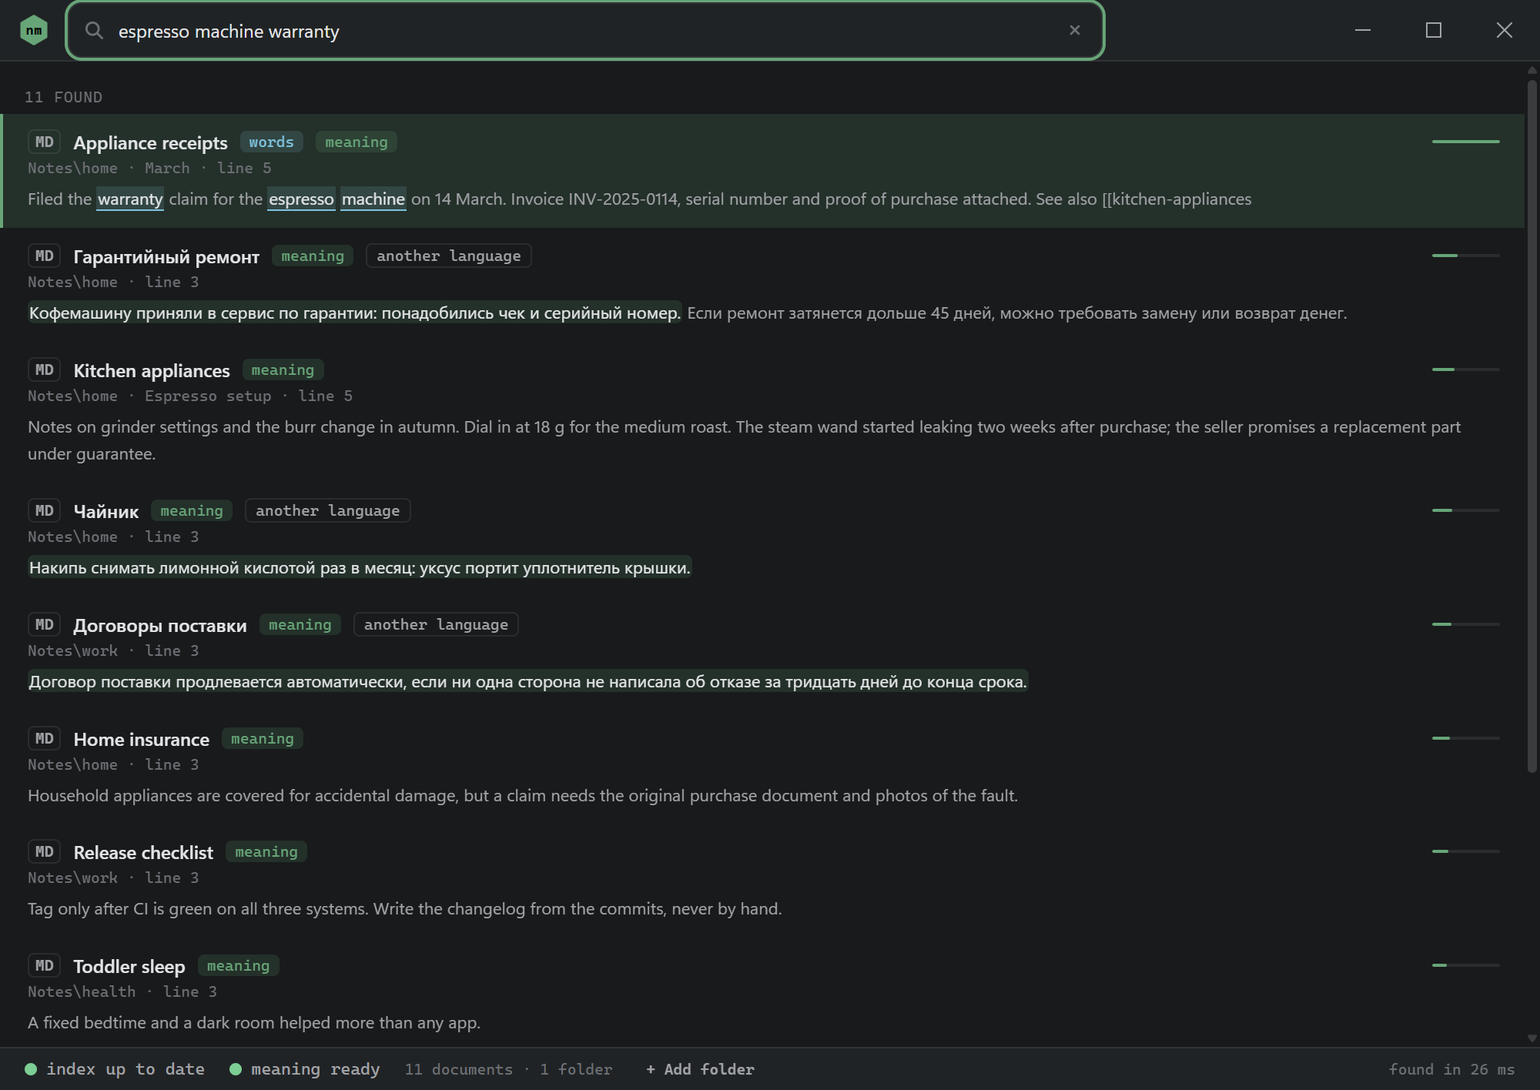
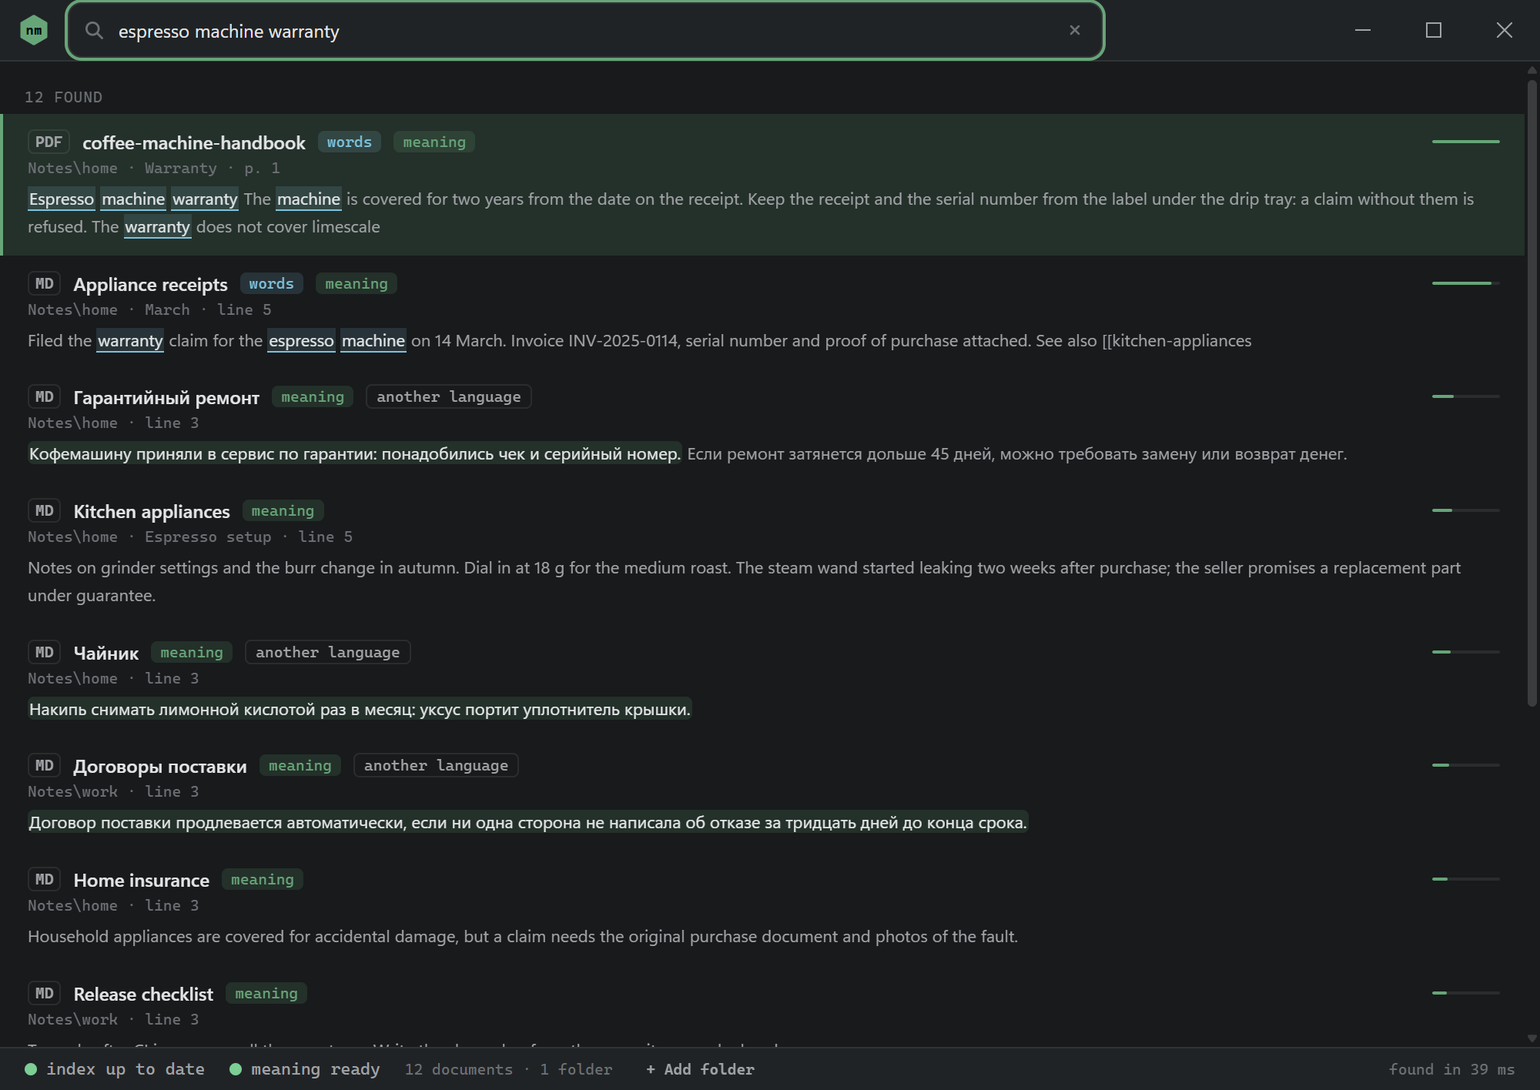
docs: describe PDF search

diff --git a/docs/src/content/docs/reference/find.md b/docs/src/content/docs/reference/find.md
@@ -25,13 +25,13 @@ nooma source remove <FOLDER>
 nooma source list [--json]
 ```
 
-A **source** is a folder. Everything under it that is a text document - `.md`, `.markdown`, `.txt`, `.text` - is searched, except what is left out:
+A **source** is a folder. Everything under it that is a document - markdown and text (`.md`, `.markdown`, `.txt`, `.text`) and PDF (`.pdf`) - is searched, except what is left out:
 
 - hidden files and folders, such as `.obsidian/`, `.trash/` and `.git/`;
 - whatever a `.gitignore` inside a git repository excludes;
 - whatever a `.nooma-ignore` file excludes - the same syntax as `.gitignore`, anywhere in the folder;
 - whatever `--exclude` patterns the source was added with, in the same syntax, relative to the folder;
-- files larger than 16 MB.
+- markdown and text files larger than 16 MB - a log or a dump, at that size - and PDFs larger than 256 MB. A PDF's bytes are mostly pictures, which are not read, so a book of 50 MB is an ordinary PDF.
 
 Two sources may not overlap. A folder inside a source would put its files in the index twice, and a folder around one would make the inner one's exclusions mean nothing; either is refused, naming the source it overlaps.
 
@@ -59,6 +59,8 @@ A source whose folder cannot be reached - a drive that is not plugged in - keeps
 
 A file that is not UTF-8, or UTF-16 with a byte order mark, is skipped and named with the reason. Its encoding is not guessed: a wrong guess puts text in the index that no query will ever match, and says nothing.
 
+**PDF** is read page by page, its text as the PDF's fonts map it - see [Chunks](#chunks) for how pages are cut. A PDF locked only against printing or copying opens as any other; one that needs a password to open is skipped, and the reason says so. A PDF with no text in it at all - a scan - is indexed by its name and the title in its metadata, so it is still found by them, and the report names it: its pages wait for OCR, which is not in this version. A PDF the reader fails on is skipped with the reason, and the rest of the update goes on. When a new nooma reads PDFs with a newer reader, the next update reads every PDF again - their bytes did not change, but what can be read out of them did - and leaves markdown and text as they are.
+
 When the stored index was built by a nooma that cut or stemmed documents differently, it is thrown away and built again, and the report says why. Searching an index built by other rules would quietly find less.
 
 Only one process updates a library at a time. A second one fails with a message saying so; `nooma find` in that case answers from the stored index instead.
@@ -76,6 +78,7 @@ Without the model, `index` updates the exact half and says how to fetch the mode
 | `removed` | Documents that left the index: deleted, excluded, or in a removed source. |
 | `chunks` | Chunks written in this update. |
 | `skipped` | Files found and not read, each with `path` and `reason`. |
+| `textless` | PDFs read in this update that hold no text - scans, most likely - by path. They are in the index, found by their names. |
 | `unavailable` | Sources whose folder could not be reached. |
 | `rebuilt` | Why the whole index was built again, or `null`. |
 | `took_ms` | How long the update took. |
@@ -100,13 +103,13 @@ Without the model, `index` updates the exact half and says how to fetch the mode
 nooma find <QUERY> [--limit <N>] [--json] [--no-refresh]
 ```
 
-Prints one list, best first, one entry per document, at the place in it that answered best. `--limit` caps it. Each entry says which halves found it: `words`, `meaning 0.84` - the cosine - or both; `meaning 0.84, another language` when the meaning alone found it in the other language than the query's, and then its fragment starts at the sentence that answered - see [Across languages](/nooma/concepts/languages/). How the two are ranked together is on [One list from two halves](/nooma/concepts/hybrid/).
+Prints one list, best first, one entry per document, at the place in it that answered best - `notes/plan.md:42` for a note, `books/manual.pdf · p. 12` for a PDF. `--limit` caps it. Each entry says which halves found it: `words`, `meaning 0.84` - the cosine - or both; `meaning 0.84, another language` when the meaning alone found it in the other language than the query's, and then its fragment starts at the sentence that answered - see [Across languages](/nooma/concepts/languages/). How the two are ranked together is on [One list from two halves](/nooma/concepts/hybrid/).
 
 **Any form of a word finds the others.** Every word is reduced to its stem before it is stored and before it is looked up, in Russian or in English by the alphabet it is written in: `договоров` finds *Договор*, `warranties` finds *warranty*. A word is judged on its own rather than by the language of the document around it, so the English terms in a Russian note are found by their English forms. `ё` and `е` are the same letter. Numbers and codes are kept as written, and `INV-2025-0114` finds that invoice number as a sequence rather than any document containing `2025`.
 
 **Every word must occur** - in the text, the title, a heading, the tags or the links - as long as some document has them all. When none does, documents with some of the words are taken instead, and the list says so above itself and marks them `some words`. Words that most of the library holds - *the*, *for*, *и* - are left out of that weaker search: on their own they match nearly everything. Which words those are, the library counts for itself; there is no list of stop words. A document holding a small part of the question counts for little against what the meaning found.
 
-**Markdown is read as a vault.** A heading ends one chunk and names the next; a code block is never split. From an Obsidian vault, frontmatter `tags`, `aliases` and `title`, inline `#tags` and `[[wikilinks]]` are fields of their own, so a note is found by what it is tagged with. A note is also found - more weakly - by the titles of the notes that link to it, and a note that many others link to ranks slightly higher. A link resolves within its own source, by file name or by the end of its path; a name two notes share resolves to neither.
+**Markdown is read as a vault.** A heading ends one chunk and names the next; a code block is never split. From an Obsidian vault, frontmatter `tags`, `aliases` and `title`, inline `#tags` and `[[wikilinks]]` are fields of their own, so a note is found by what it is tagged with. A note is also found - more weakly - by the titles of the notes that link to it, and a note that many others link to ranks slightly higher. A link resolves within its own source, by file name or by the end of its path; a name two notes share resolves to neither. A note is linked without its `.md`, any other file with its extension, as Obsidian does: `![[manual.pdf]]` gives the PDF the linking note's title, `[[manual]]` does not.
 
 **By meaning** comes from the vector index. When there is no model, or no vectors yet, the words answer alone and a line under the list says how to get the other half; when the vectors cover only part of the library - files changed since the last `nooma index` - the line says how many documents they do not cover yet. A document deleted since is never in the list.
 
@@ -136,10 +139,11 @@ Each hit carries:
 | Field | Meaning |
 | --- | --- |
 | `path` | The file. |
-| `kind` | `markdown` or `text`. |
-| `title` | The frontmatter title, the first top-level heading, or the file name. |
-| `headings` | The headings above the chunk shown, outermost first. |
-| `line` | The line the chunk starts on. |
+| `kind` | `markdown`, `text` or `pdf`. |
+| `title` | The frontmatter title, the first top-level heading, or the file name. A PDF's is always its file name. |
+| `headings` | The headings above the chunk shown, outermost first; in a PDF, its bookmarks leading to the page. |
+| `line` | The line the chunk starts on; in a PDF, the line of the text read out of it, counted through the pages - `page` is what to open it at. |
+| `page` | The page the chunk is on, from 1; only in a PDF's hit. |
 | `fragment` | A piece of the chunk: around the words that matched when the words carried the document, its opening when the meaning did - or, for a document found across languages, the sentence that answered and what follows. |
 | `highlights` | Where the matching words are in `fragment`, as `[start, end]` byte offsets; empty when the fragment came from the meaning. |
 | `closest` | Where the sentence closest in meaning to the query is in `fragment`, as `[start, end]` byte offsets; only for a document found across languages. |
@@ -157,7 +161,7 @@ nooma similar <FILE> [--limit <N>] [--json] [--no-refresh]
 nooma similar - < passage.txt
 ```
 
-Finds the documents that say what a passage says: a paragraph from a letter, a page of a note, anything you have in front of you and want the rest of your files' take on. `-` reads the passage from standard input. When the file is itself in the library, it is left out of its own results.
+Finds the documents that say what a passage says: a paragraph from a letter, a page of a note, anything you have in front of you and want the rest of your files' take on. `-` reads the passage from standard input. A PDF is read for its text, as the library reads it. When the file is itself in the library, it is left out of its own results.
 
 Only the half by meaning answers: a paragraph's words are not a query - every one of them would have to occur. The passage is read as a passage, the way the documents were, rather than as a question; the model reads its first 512 tokens, about a page. `similar` needs the model and the vectors, and says which is missing.
 
@@ -166,3 +170,7 @@ Only the half by meaning answers: a paragraph's words are not a query - every on
 ## Chunks
 
 A document is indexed as **chunks**: runs of paragraphs under one heading, packed up to 1,500 characters. A heading always starts a new chunk, a paragraph is split only when it is longer than a chunk on its own, and a fenced code block stays whole. A result points at its best chunk, so the fragment and the line are where the answer is rather than the top of the file. The half by meaning reads the same chunks, each with its document's title and the headings above it.
+
+In a **PDF**, a page always starts a new chunk, as a heading does: every chunk is on one page, and the page a result names is the page the answer is on. A paragraph that runs over onto the next page is two chunks. The PDF's bookmarks stand in for headings - a chunk is under the last bookmark that points at its page or an earlier one, with the bookmarks it is nested in - so a book's results say which chapter they are in. Before a page is cut, what typesetting leaves in its text is undone: a word broken across lines by a soft hyphen is joined again, ligatures and other compatibility characters become ordinary letters, and runs of spaces become one.
+
+A PDF's title is its file name - the name you see in the folder and open it by. The title in its metadata, when it names the document rather than a file (`Microsoft Word - report.docx` does not), is searched as well, as another name for the document.

diff --git a/docs/adr/0009-pdf-by-pages.md b/docs/adr/0009-pdf-by-pages.md
@@ -1,0 +1,53 @@
+# 0009 — PDF is read by pdf_oxide, page by page, and a page ends a chunk
+
+Date: 2026-10-16
+Status: accepted
+
+## Context
+
+Until v0.10 a library held markdown and plain text. PDF is the next format the plan names, and the one a personal archive holds most of after notes: books, papers, manuals, statements, contracts. Four questions came with it.
+
+1. **What reads the text.** PDF text is glyphs placed on a page, mapped to characters by each font's own tables. A reader decides what a word is, which line follows which, and what to do with hyphens, ligatures and two columns. What it gets wrong is not visible in a search - it is a document that is not found.
+2. **Where a result is.** A note's place is a line, which an editor opens. A PDF's place is a page, which a reader opens; nobody opens a PDF at line 340.
+3. **What the document is called.** A PDF carries a title in its metadata, as often the name of the program that printed it as the name of the document.
+4. **What a library says about a PDF it cannot read.** A scan has no text at all; a PDF can need a password; a malformed one can make its reader fail.
+
+## Decision
+
+**`pdf_oxide` reads the text, through its `extract_text`.** It was measured against the alternatives on twenty-five real PDFs - arXiv papers, Wikipedia articles in Russian and English printed by its own renderer, a US tax form, the test files of pdf.js, seven Russian books with typeset and OCR text layers - and on three PDFs whose text was known: the synthetic bilingual corpus of `tests/meaning`, printed by Chrome in one column, two columns, and a narrow hyphenated column. On the known text it returned every word (recall 1.000) where `pdf-extract` left words broken by hyphenation (0.996); on Russian Wikipedia 0.996-1.000 against 0.983-0.986, with more word pairs in their order (0.970-0.989 against 0.934-0.956). It reads books two to ten times faster (354 pages in 1.1 s against 9.1 s), opens PDFs locked only by an owner password, drops running headers, and on a font with no character map it returns nothing rather than noise. `pdf-extract` broke the words of OCR text layers into letters and syllables. `pdfium-render` would ship a C++ library beside the binary. `pdf_oxide`'s other mode, `to_plain_text`, orders text by layout analysis and interleaved the two columns of a paper line by line; `extract_text` did not. It is built without its default features: colour management is for rendering, which nooma does not do; the RC4 cipher stays, for PDFs locked with the empty password by older producers.
+
+**A page ends a chunk, as a heading does.** Every chunk is on one page, and the page a result names - `page` in the JSON, `p. 12` in the window and the shell - is the page the answer is on. A chunk keeps a line too: the line of the text read out of the PDF, counted through the pages, which is where the vectors and the full-text index find a chunk by. The PDF's bookmarks stand in for headings: a chunk is under the path of the last bookmark pointing at its page or an earlier one.
+
+**Text is cleaned before it is cut.** A soft hyphen goes with the line break and the spaces around it, joining the word it broke; the text is put in NFKC, so ligatures and non-breaking spaces are ordinary characters; runs of spaces become one.
+
+**A PDF's title is its file name.** The metadata title is searched as an alias when it names the document - not empty, not the file name again, and not a file name itself, such as `Microsoft Word - report.docx`.
+
+**What read a file is part of the manifest.** Every PDF's entry carries `pdf_oxide`'s version. A file whose bytes did not change but whose reader did is read again, and only PDFs are: a newer reader is the most likely reason the text of an unchanged PDF would improve, and the stack is updated weekly.
+
+**What cannot be read is said.** A PDF that needs a password to open is skipped with that reason. One with no text on any page is indexed by its name and metadata title, and the update names it (`textless`) - OCR is a later version. A page the reader fails on reads as empty; a document whose every page fails is skipped. A panic inside the reader is caught and becomes the reason the file was skipped.
+
+**Size is a property of the kind.** Markdown and text larger than 16 MB are a log or a dump and are skipped; a PDF may be 256 MB, since its bytes are mostly pictures, which are not read.
+
+## Consequences
+
+Positive:
+
+- A book or a paper is found at its page and its chapter, in Russian and English, with words broken across lines found whole.
+- A scan is still found by its name, and the update says which files are scans, so the reason a search misses their text is visible.
+- Updating `pdf_oxide` reads every PDF again by itself, and nothing else.
+
+Negative:
+
+- `pdf_oxide` is heavy: about 140 crates in its tree, among them an image decoder and a layout engine the reading does not use. The offline test checks none of them can reach the network.
+- A paragraph that runs over a page break is two chunks, each matching half of it.
+- In an OCR text layer, `extract_text` sometimes puts the lines of a page out of order; and it can run two paragraphs together without a space (`loop.Every`), which the tokenizer splits anyway.
+- `pdf_oxide` 0.3.78 does not resolve named destinations whose names are not UTF-8 - the UTF-16 names InDesign writes - so such a book's bookmarks give no headings. Its pages and text are unaffected.
+- Every new `pdf_oxide` version costs one reading of every PDF.
+
+Rejected alternatives:
+
+- **`pdf-extract`.** Smaller and older; broken words in OCR text and hyphenation, garbage on fonts without a character map, slow on books.
+- **PDFium.** The best reader there is, and a native library to ship, version and load beside every build.
+- **Chunks packed across pages.** Fewer, fuller chunks on slides and short pages, and a page number that can be wrong for every chunk but the first page's.
+- **The metadata title as the title.** Right for a paper, wrong for most of what an archive holds, and a wrong title is shown on every result.
+- **Bumping the chunker's version when the PDF reader changes.** One more thing to remember at every weekly stack update, and a reindex of every note for a change that only touched PDFs.

diff --git a/README.md b/README.md
@@ -31,9 +31,9 @@ There is exactly one exception, and it is not in the default build: `--prose` ca
 
 ## What works today
 
-v0.9.0 searches your folders two ways at once - by the words in them and by what they mean - and answers with one list, in Russian and English alike. Point it at notes, text files or an Obsidian vault, and search from a window with one field or from the shell:
+v0.10.0 searches your folders two ways at once - by the words in them and by what they mean - and answers with one list, in Russian and English alike. Point it at notes, text files, PDFs or an Obsidian vault, and search from a window with one field or from the shell:
 
-<p align="center"><img src="https://github.com/lacodda/nooma/raw/main/assets/screenshot.png" alt="The nooma window: one field in the title bar and one list of results, each marked by the half that found it; Russian notes found for an English question are marked another language, with the sentence that answered highlighted" width="720"></p>
+<p align="center"><img src="https://github.com/lacodda/nooma/raw/main/assets/screenshot.png" alt="The nooma window: one field in the title bar and one list of results, each marked by the half that found it - a PDF at its page and bookmark first; Russian notes found for an English question are marked another language, with the sentence that answered highlighted" width="720"></p>
 
 ```
 $ nooma source add ~/Notes
@@ -54,13 +54,15 @@ Kitchen appliances · Espresso setup (meaning 0.83)
 
 Any form of a word finds the others; the meaning finds the notes in words they do not use - a guarantee, a repair - and in the other language, showing the sentence that answered. Each document appears once, marked by the halves that found it; on the author's own archive the one list beats either half alone. Paste a paragraph into the window - or give it to `nooma similar` - to find what else says the same.
 
+A PDF is read page by page: its result names the page the answer is on and the chapter its bookmarks give, and a word the typesetter broke across two lines is found whole. A scan has no text to read yet; it is found by its name, and the index says which files are scans.
+
 The model runs on your CPU and is fetched once, when you ask: a button in the window, `nooma model fetch` in the shell. The first reading of a large library takes an hour or so; it runs in the background, and search answers over what is read meanwhile. `nooma eval` measures each half and the list against questions whose answers you know, on your own folders.
 
 The repository index from earlier versions is still here: `nooma repo` reads a git repository into symbols, imports, module summaries and commit history, for [rigger](https://github.com/lacodda/rigger) and for scripts.
 
 ## Status
 
-v0.9.0. Markdown and text are searched by words and by meaning and answered with one list - in a window and on the command line - and a pasted passage finds its kin: the hybrid the name promises. A question in Russian finds the English document and the other way round, and says why. PDF, DOCX and EPUB come next. See the [changelog](https://github.com/lacodda/nooma/blob/main/CHANGELOG.md) for what has shipped, and [CONTRIBUTING.md](https://github.com/lacodda/nooma/blob/main/CONTRIBUTING.md) for the build.
+v0.10.0. Markdown, text and PDF are searched by words and by meaning and answered with one list - in a window and on the command line - and a pasted passage finds its kin: the hybrid the name promises. A question in Russian finds the English document and the other way round, and says why; a PDF is found at its page. DOCX and EPUB come next. See the [changelog](https://github.com/lacodda/nooma/blob/main/CHANGELOG.md) for what has shipped, and [CONTRIBUTING.md](https://github.com/lacodda/nooma/blob/main/CONTRIBUTING.md) for the build.
 
 ## License
 

diff --git a/CONTRIBUTING.md b/CONTRIBUTING.md
@@ -87,6 +87,10 @@ and wire a new file into the model's catalogue entry. `cargo test -p nooma-core`
 
 Fixtures are written for the test. Nothing in the test corpus comes from a real repository or a real archive: nooma indexes personal files, and no fragment of real content belongs in the code, the tests, the fixtures or the screenshots.
 
+The PDFs in `crates/nooma-core/tests/pdf` are made from `source/handbook.html` by `source/make_fixtures.py`: Chrome prints it, as most PDFs are printed - a subset font, a real text layer, Russian hyphenated in a narrow column - and pypdf adds the outline, the metadata title and the two kinds of encryption. Change the HTML and run the script again rather than editing a PDF by hand; it needs Chrome and `pip install pypdf`.
+
+A PDF reader is chosen by what it reads out of PDFs whose text is known, not by how its output looks. Print a corpus whose words you have - the bilingual one in `tests/meaning` will do - in one column, two columns and a narrow hyphenated one, and count the words returned and the pairs of words returned in their order; then read a few real books and papers, Russian ones among them, for what the counts cannot see. ADR 0009 has the numbers that chose `pdf_oxide`.
+
 Green tests are not a verified product. Three defects in v0.1.0 were found only by running the binary against real repositories while 39 tests passed — a Windows path prefix leaking into every output, a type reported once per `impl` block, and a CLI flag that clashed with a positional argument so that no invocation parsed. Run it on something real before calling a version done.
 
 ## Principles

diff --git a/docs/src/content/docs/getting-started.md b/docs/src/content/docs/getting-started.md
@@ -17,7 +17,7 @@ The window comes as an installer on the same release page: `nooma_<version>_x64-
 
 ## What works today
 
-nooma searches folders of markdown and text by the words in them and by what they mean, from a window or from the shell, and indexes git repositories for [`rigger`](https://github.com/lacodda/rigger). Both halves answer as one list, ranked together; see [One list from two halves](/nooma/concepts/hybrid/).
+nooma searches folders of markdown, text and PDF by the words in them and by what they mean, from a window or from the shell, and indexes git repositories for [`rigger`](https://github.com/lacodda/rigger). Both halves answer as one list, ranked together; see [One list from two halves](/nooma/concepts/hybrid/).
 
 ## Search your folders
 
